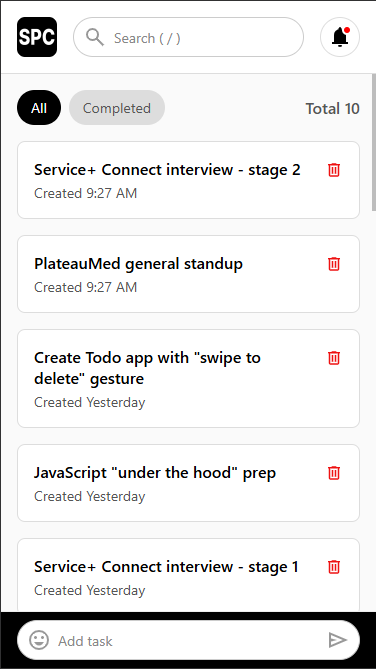
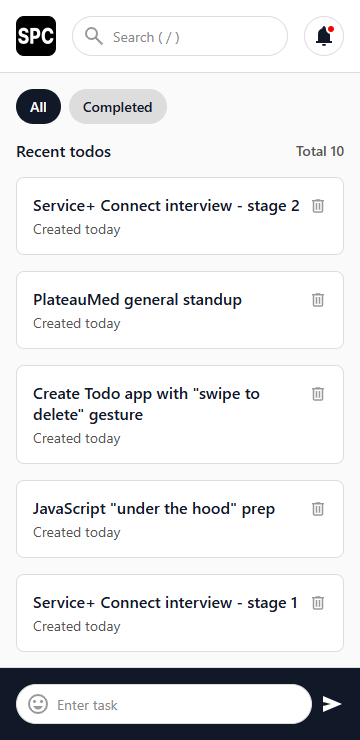
style: update todo list component

diff --git a/features/todo/components/filters/styles.ts b/features/todo/components/filters/styles.ts
@@ -6,14 +6,22 @@ export const filtersStyles = {
   _: {},
   static: StyleSheet.create({
     container: {
-      paddingBottom: 16,
-      ...flexStyles.flexRowCenterBetween
+      rowGap: 16,
     },
     tabs: {
       ...flexStyles.flexRowCenter,
       columnGap: 8,
     },
-    totaled: {
+    sectionHeader: {
+      marginBottom: 16,
+      ...flexStyles.flexRowCenterBetween,
+    },
+    sectionHeading: {
+      color: COLOR.black,
+      fontWeight: 600,
+      fontSize: 16,
+    },
+    sectionSubText: {
       color: COLOR.subText,
       fontWeight: 600,
       fontSize: 14,

diff --git a/features/todo/components/notifications/index.tsx b/features/todo/components/notifications/index.tsx
@@ -2,6 +2,7 @@ import React from "react";
 import { View } from "react-native";
 //
 import { NotificationsIcon } from "@/constants/ICON";
+import { COLOR } from "@/constants/COLOR";
 import { notificationsStyles as s } from "./styles";
 
 type PropsType = {};
@@ -12,7 +13,7 @@ const Notifications: React.FC<PropsType> = () => {
   return (
     <View style={s.container}>
       <View style={s.wrapper}>
-        <NotificationsIcon />
+        <NotificationsIcon color={COLOR.black} />
         <View style={s.indicator} />
       </View>
     </View>

diff --git a/features/todo/components/filters/index.tsx b/features/todo/components/filters/index.tsx
@@ -18,8 +18,10 @@ const Filters: React.FC<PropsType> = ({ total = 0 }) => {
           <Text style={s.tabText().transform}>Completed</Text>
         </View>
       </View>
-      {/* TOTALED */}
-      <Text style={s.static.totaled}>Total {total}</Text>
+      <View style={s.static.sectionHeader}>
+        <Text style={s.static.sectionHeading}>Recent todos</Text>
+        <Text style={s.static.sectionSubText}>Total {total}</Text>
+      </View>
     </View>
   );
 };

diff --git a/features/todo/components/todo-list/index.tsx b/features/todo/components/todo-list/index.tsx
@@ -1,6 +1,5 @@
 import React from "react";
 import { View, Text, FlatList } from "react-native";
-import { format } from "date-fns";
 //
 import Filters from "../filters";
 import { DeleteOutlineIcon, CloseIcon } from "@/constants/ICON";

diff --git a/features/todo/hooks/useTodo.ts b/features/todo/hooks/useTodo.ts
@@ -1,4 +1,6 @@
 import { useEffect, useState } from "react";
+import { format } from "date-fns";
+// 
 import fakeTodos from "@/data/fakeTodos.json";
 import { TodoEntity } from "../utils/todo.types";
 

diff --git a/features/todo/components/todo-list/styles.ts b/features/todo/components/todo-list/styles.ts
@@ -14,6 +14,7 @@ export const todoListStyles = {
       rowGap: 4,
     },
     title: {
+      color: COLOR.black,
       fontWeight: 600,
       fontSize: 16,
     },
